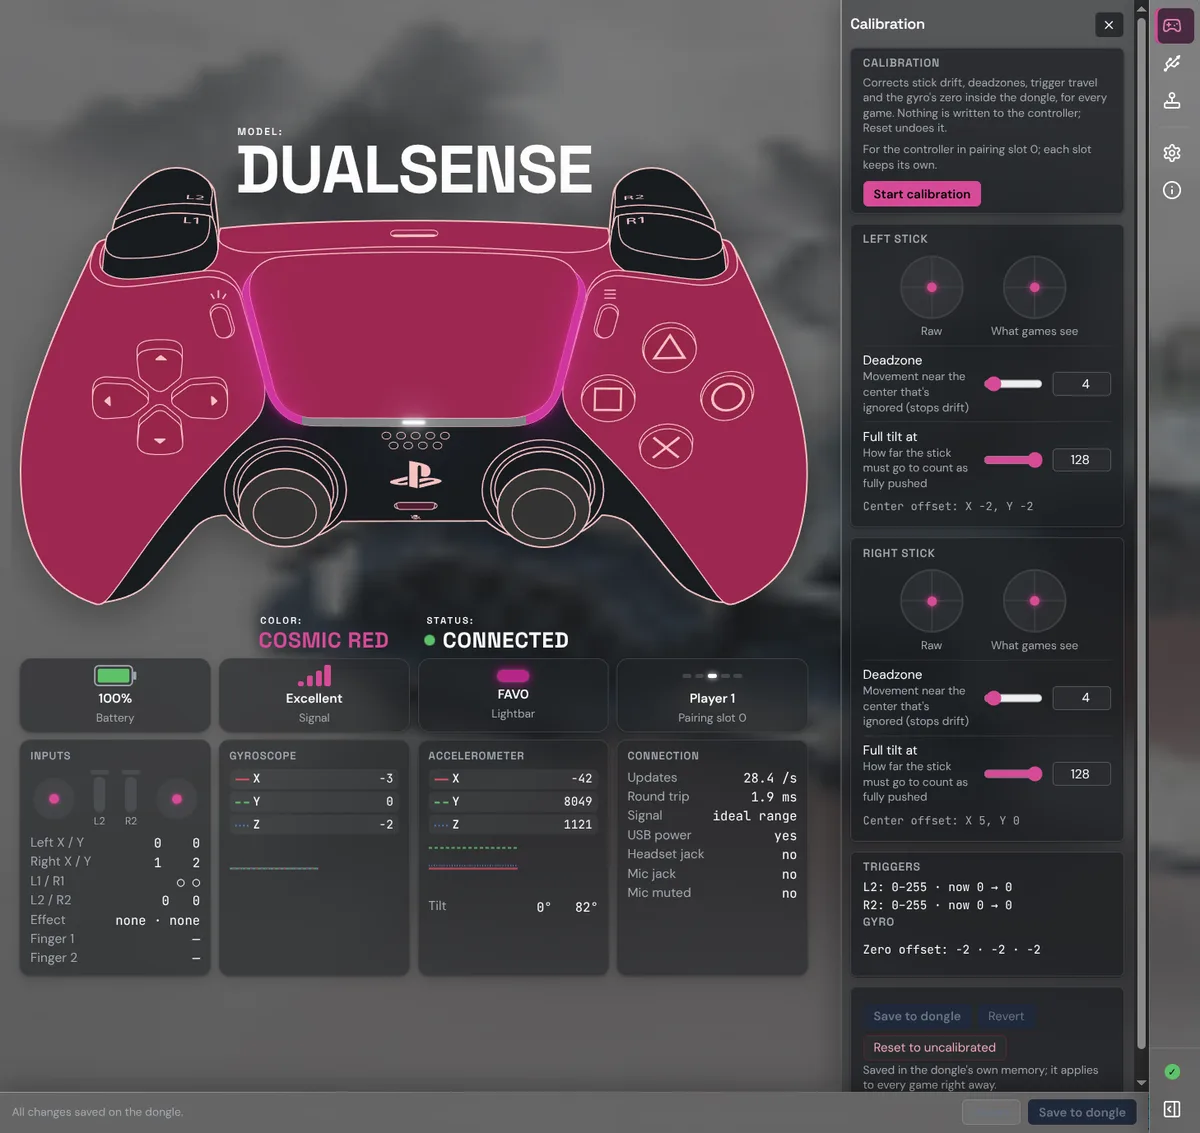
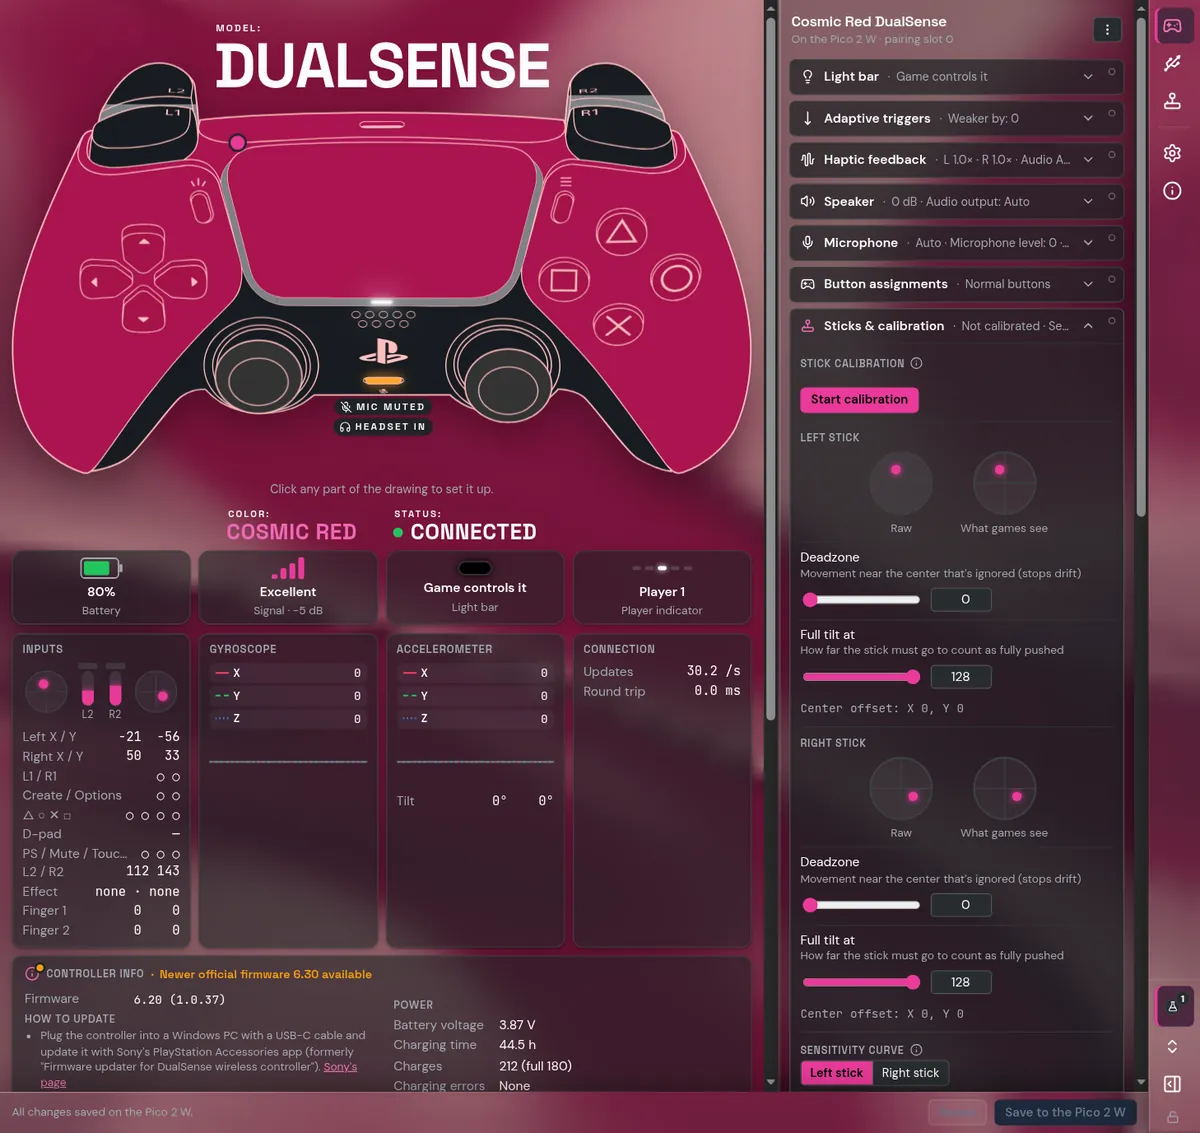
site: new screenshots and a "New in 0.9.5-dev.19" line
Hero, haptics and calibration from the new guide shots (WebP); the
board's page replaces dongle.webp as board.webp, and its alt text and
captions name your board.

Claude-Session: https://claude.ai/code/session_01CdFqejuADzqY5ZcFuMsdaM

diff --git a/site/index.html b/site/index.html
@@ -31,7 +31,7 @@
 
     <main>
       <section class="hero">
-        <p class="eyebrow">New in 0.9: calibration, vibration intensity per side, the dongle's screen live</p>
+        <p class="eyebrow">New in 0.9.5-dev.19: DualSense Edge support, stick sensitivity curves, sleep and wake with your PC, HDR games on Linux</p>
         <h1>Your DualSense,<br /><span class="glow">live on screen.</span></h1>
         <p class="lede">
           The DS5 Dongle OLED Edition turns a Raspberry Pi Pico&nbsp;2&nbsp;W into a Bluetooth bridge that games see as a wired DualSense, with adaptive triggers, haptic feedback, built-in speaker and
@@ -51,7 +51,7 @@
         </div>
 
         <figure class="shot">
-          <img src="img/hero.webp" width="1458" height="1377" alt="The app: a Cosmic Red DualSense drawn live, with tiles and live data below it" />
+          <img src="img/hero.webp" width="1458" height="1376" alt="The app: a Cosmic Red DualSense drawn live, with tiles and live data below it" />
         </figure>
       </section>
 
@@ -88,11 +88,11 @@
         </figure>
         <figure>
           <img src="img/calibration.webp" width="1200" height="1133" loading="lazy" alt="Calibration: a guided run with raw and corrected stick previews" />
-          <figcaption>Calibration: stick drift, triggers that don't reach full, a creeping gyro. Fixed in the dongle, for every game.</figcaption>
+          <figcaption>Calibration: stick drift, triggers that don't reach full, a creeping gyro. Fixed on your board, for every game.</figcaption>
         </figure>
         <figure>
-          <img src="img/dongle.webp" width="1200" height="1133" loading="lazy" alt="The dongle's screen mirrored live, with its diagnostics dashboard" />
-          <figcaption>The dongle's own screen, live, and a dashboard of what it's doing.</figcaption>
+          <img src="img/board.webp" width="1200" height="1133" loading="lazy" alt="The Pico 2 W's page: its OLED screen mirrored live, with its dials and diagnostics" />
+          <figcaption>Your board's own screen, live, and a dashboard of what it's doing.</figcaption>
         </figure>
       </section>
 

diff --git a/CHANGELOG.md b/CHANGELOG.md
@@ -8,6 +8,7 @@ Format follows [Keep a Changelog](https://keepachangelog.com/en/1.1.0/); version
 
 ### Changed
 
+- **New pictures of the current app.** The guide's screenshots, the marketing shots and the download page show the 0.9.5 layout (the Controller page's sections, the Pico 2 W page, Games), not the 0.8/0.9.0 one with its Dongle tab and Save to dongle; the download page's "New in" line names 0.9.5-dev.19's features.
 - **Button layout hints name the real buttons.** They pointed at an "Apply assignments" button and a "Buttons page" that don't exist; they now say **Save to** your board (the save bar) and **Button assignments** on the **Controller** page, in all 7 languages.
 - **The guide, the download page and About say it right.** The app is tested on Linux, Windows 11 and macOS (on a real Apple Silicon Mac, by the macOS smoke test), not "untested" or "community-tested" on macOS. The guide's light bar modes and button list use the app's names (Game controls it, Tilt color, Button assignments, Reset all buttons). About → Coming soon lists the macOS menu bar icon as done, and the credits name the button glyphs instead of the retired web tool.
 
